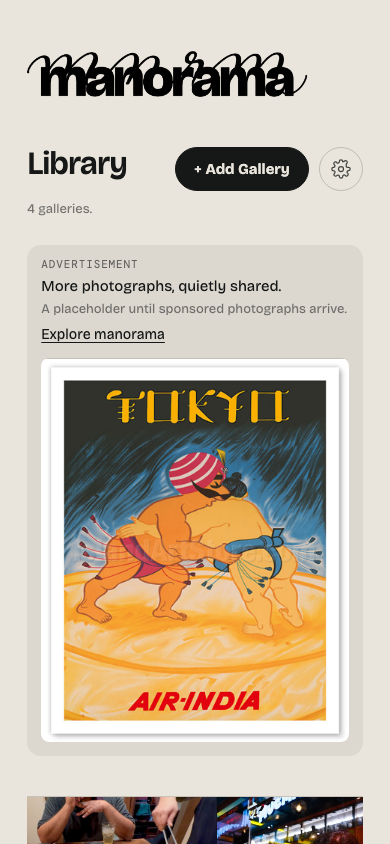
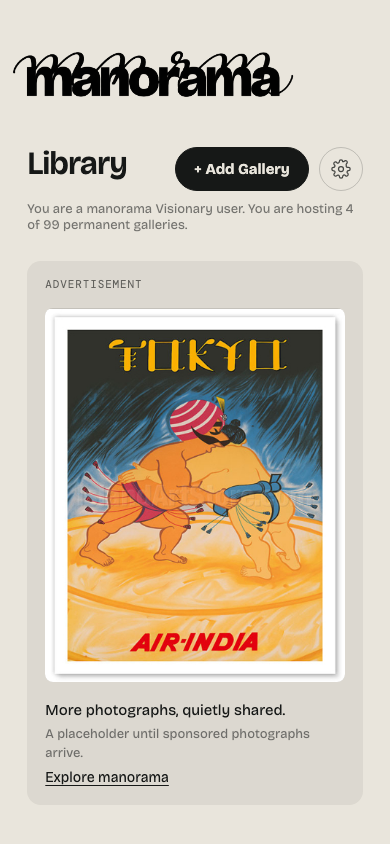
fix(admin): square the bold "m" on the "L" and level the slot with the first strip
The first pass measured the logo's leftmost ink, which is the
calligraphic overlay, not the wordmark — the bold "m" starts at
9.17% of the PNG, so the margin grows to -28px and the thin script
overhangs the column edge like an optical margin. The sponsored
slot drops from spanning all rows to starting at the list's row,
landing its top level with the first card's strip while keeping
the same sticky pin for scrolling.

diff --git a/app/styles.css b/app/styles.css
@@ -1634,11 +1634,13 @@ body:has(.ops-page) { overflow: auto; overflow-x: clip; background: #111312; }
 .admin-page--selector input::placeholder { color: rgba(var(--ink), var(--admin-muted)); opacity: 1; }
 
 .admin-galleries-heading { margin: 0; color: rgb(var(--ink)); font-size: 32px; font-weight: 600; letter-spacing: -.03em; }
-/* The PNG carries transparent bearing (~4.6% left, ~3.9% right of its
-   2170px canvas). Rendering the file at 306px puts the ink itself at 280px
-   — 2x the old mark — and the -14px margin pulls its left bearing back so
-   the "m" starts on the heading's left edge. */
-.admin-brand-mark { display: block; width: 306px; height: auto; margin: 0 0 18px -14px; }
+/* The PNG carries transparent bearing, and the bold "m" starts a further
+   ~4.6% in — the calligraphic overlay is what touches the canvas edge
+   (9.17% total, col 199 of 2170). Rendering the file at 306px puts the
+   ink near 280px, and the -28px margin pulls that bearing back so the
+   bold "m" starts square on the heading's left edge; the thin script may
+   overhang a few px left, like a proper optical margin. */
+.admin-brand-mark { display: block; width: 306px; height: auto; margin: 0 0 18px -28px; }
 .admin-library-heading { display: flex; align-items: baseline; justify-content: space-between; gap: 16px; }
 .admin-heading-actions { display: flex; align-items: center; gap: 10px; }
 .admin-library-sub { margin: 10px 0 28px; color: rgba(var(--ink), .55); font-size: 13px; }
@@ -1715,7 +1717,9 @@ body:has(.ops-page) { overflow: auto; overflow-x: clip; background: #111312; }
   .admin-page--selector .gallery-list--has-ad > :not(.account-ad) { grid-column: 1; }
   .admin-page--selector .gallery-list--has-ad > .account-ad {
     grid-column: 2;
-    grid-row: 1 / span 4;
+    /* Row 4 is the list itself — the slot's top lands level with the
+       first card's strip, and its sticky area is the list's full height. */
+    grid-row-start: 4;
     position: sticky;
     top: 16px;
     width: 100%;

diff --git a/admin-appearance.playwright.ts b/admin-appearance.playwright.ts
@@ -64,9 +64,11 @@ for (const size of sizes) {
           // Wide: the slot is the grid's second column, beside the list —
           // and its left edge never invades the content column.
           expect(sponsoredBox.x).toBeGreaterThanOrEqual(cardBox.x + cardBox.width - 1)
-          // The mark's visible ink squares on the heading's left edge —
-          // "m" over "L". The box starts 14px left (transparent bearing).
-          expect(Math.abs(heroBox.x + 14 - headingBox.x)).toBeLessThan(2)
+          // The mark's bold "m" squares on the heading's left edge — "m"
+          // over "L". The box starts 28px left (bearing + script overhang).
+          expect(Math.abs(heroBox.x + 28 - headingBox.x)).toBeLessThan(2)
+          // The slot's top sits level with the first card's strip.
+          expect(Math.abs(sponsoredBox.y - cardBox.y)).toBeLessThan(2)
           // The creative fits its media box whole — never cropped.
           const mediaBox = (await sponsored.locator('.account-ad-media').boundingBox())!
           const adImgBox = (await sponsored.locator('img').boundingBox())!

diff --git a/qa.playwright.ts b/qa.playwright.ts
@@ -2421,9 +2421,9 @@ test("owner admin lists galleries without a selector and remains noindex", async
   const headingBox = (await page
     .locator("h1.admin-galleries-heading")
     .boundingBox())!;
-  // The mark's box starts 14px left of the ink — the PNG's transparent
-  // bearing — so the visible "m" lands on the heading's left edge.
-  expect(Math.abs(brandBox.x + 14 - headingBox.x)).toBeLessThan(2);
+  // The mark's box starts 28px left of the bold "m" — the PNG's bearing
+  // plus the script overhang — so the glyph lands on the heading's edge.
+  expect(Math.abs(brandBox.x + 28 - headingBox.x)).toBeLessThan(2);
   expect(brandBox.width).toBeGreaterThanOrEqual(306);
   await expect(page.locator(".admin-section-index")).toHaveCount(0);
   await expect(page.getByText("View gallery")).toHaveCount(0);
